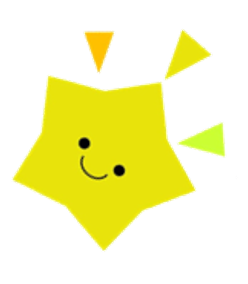
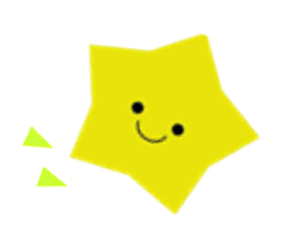
appcssヘッダーアイコン修正

Changed region(s): [[0.0282, 0.0871, 0.9315, 0.9004]]

diff --git a/WebContent/css/app.css b/WebContent/css/app.css
@@ -184,8 +184,8 @@ padding-top:1vh;
 .nav .nav-right-img a:after{
   content: "";
   position: absolute;
-  top: -5vh;
-  right: -3vw;
+  top: -4vh;
+  right: -2.5vw;
   display: inline-block;
   pointer-events: none;
   width: 6vh;

diff --git a/WebContent/css/common/app.css b/WebContent/css/common/app.css
@@ -184,8 +184,8 @@ padding-top:1vh;
 .nav .nav-right-img a:after{
   content: "";
   position: absolute;
-  top: -5vh;
-  right: -3vw;
+  top: -4vh;
+  right: -2.5vw;
   display: inline-block;
   pointer-events: none;
   width: 6vh;
